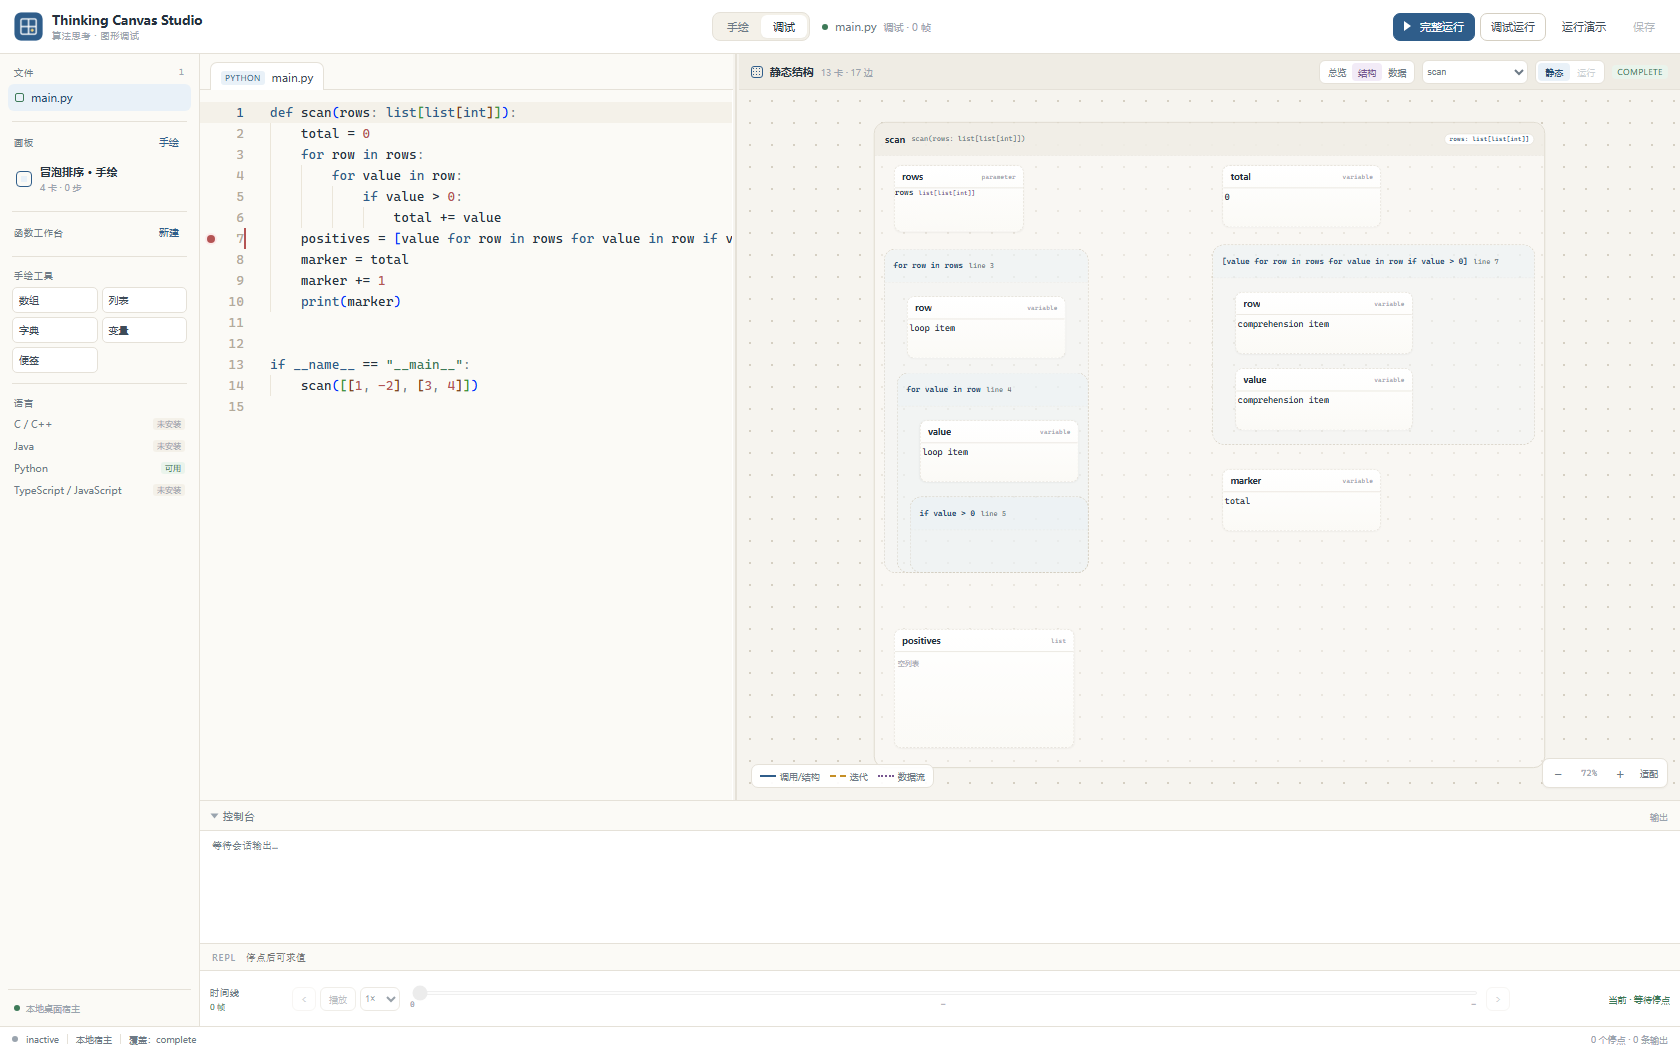
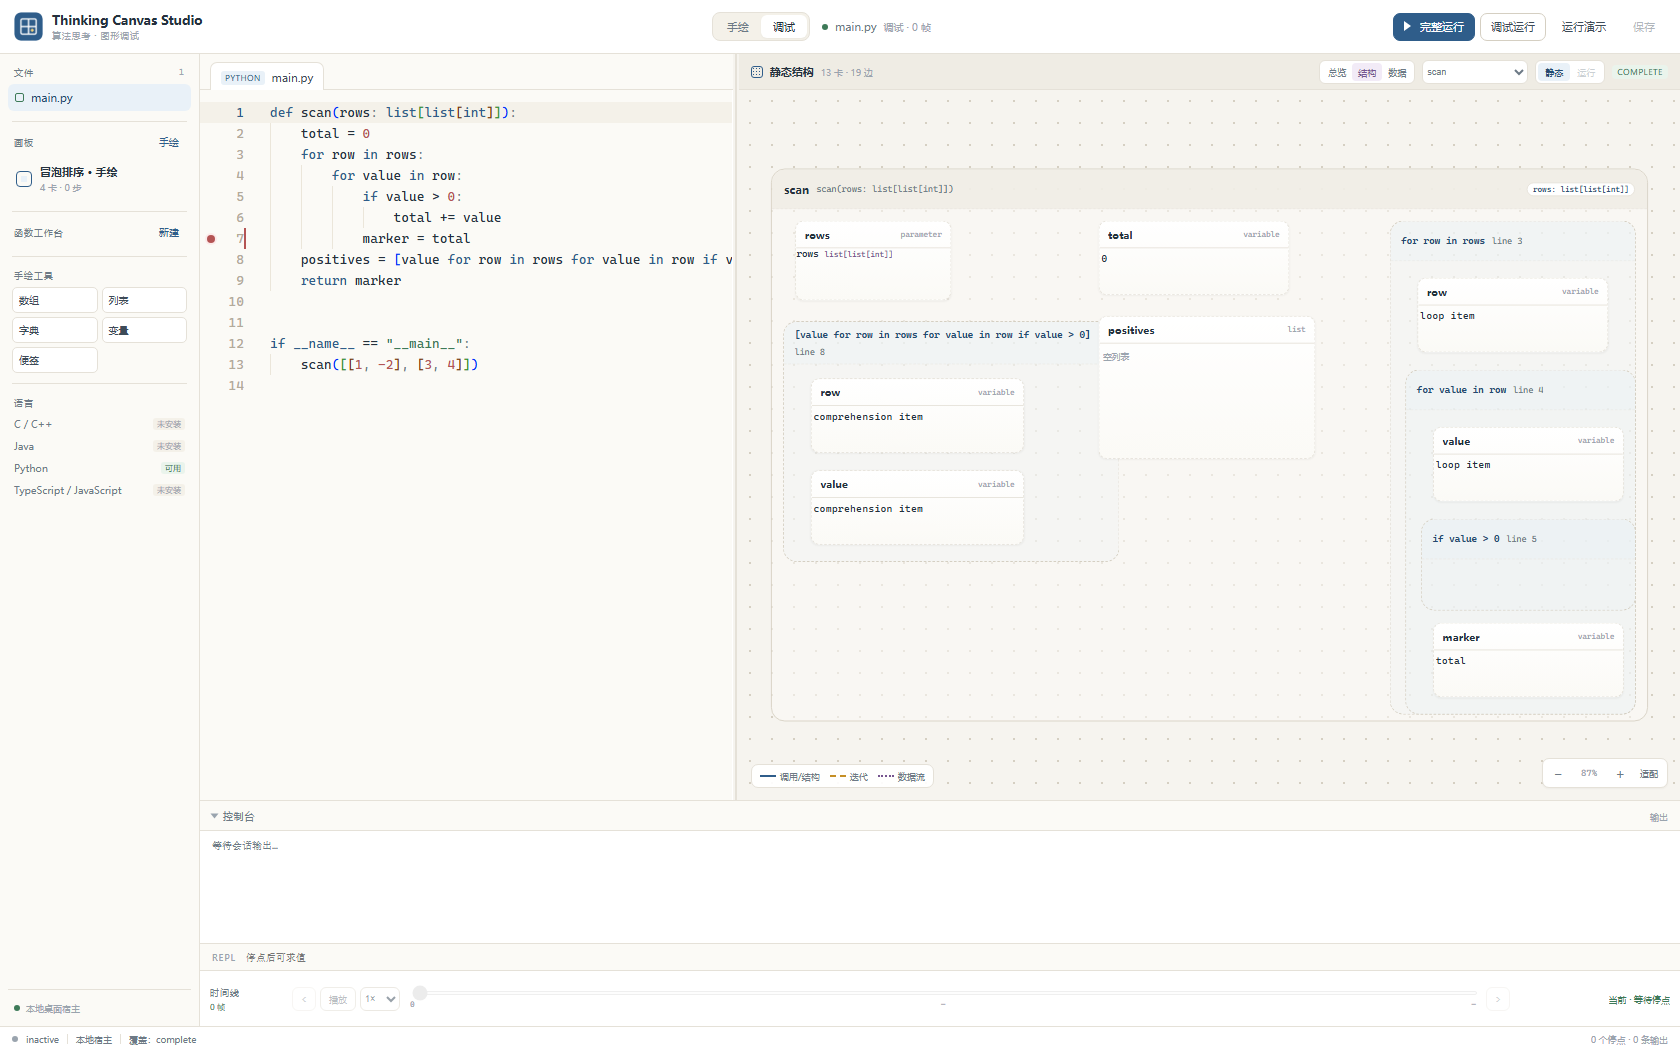
feat: show captured loop iterations on the canvas
- derive per-loop iteration chips from runtime snapshots
- show outer/inner/comprehension tracks in loop headers with current highlight
- keep tracks limited to captured stops and the latest six iterations
- refresh nested-control screenshots and document the remaining full-track work

diff --git a/frontend/src/canvas/SceneCanvas.tsx b/frontend/src/canvas/SceneCanvas.tsx
@@ -2,13 +2,15 @@ import { useEffect, useMemo, useRef, useState, type PointerEvent, type WheelEven
 import { graphlib, layout as dagreLayout } from '@dagrejs/dagre';
 import type { SceneDiff } from '@core/canvas/diff';
 import type { LayoutViewState } from '@core/canvas/documents';
-import type { CanvasNode, CardData, SceneDto } from '@core/domain/contracts';
+import type { CanvasNode, CardData, SceneDto, TraceSnapshot } from '@core/domain/contracts';
 
 interface SceneCanvasProps {
 	readonly scene: SceneDto;
 	readonly mode: 'manual' | 'debug';
 	readonly graphView?: 'overview' | 'structure' | 'data';
 	readonly focusId?: string;
+	readonly history?: readonly TraceSnapshot[];
+	readonly historyIndex?: number;
 	readonly layout: LayoutViewState;
 	readonly diff: SceneDiff;
 	readonly selectedNodeId?: string;
@@ -113,6 +115,8 @@ export function SceneCanvas({
 	mode,
 	graphView = 'overview',
 	focusId,
+	history,
+	historyIndex,
 	layout,
 	diff,
 	selectedNodeId,
@@ -130,6 +134,10 @@ export function SceneCanvas({
 	const sceneKey = useMemo(() => scene.nodes.map(node => node.id).join('|'), [scene.nodes]);
 	const regions = useMemo(() => frameRegions(scene, positions, graphView, focusId), [scene, positions, graphView, focusId]);
 	const hiddenNodeIds = useMemo(() => new Set(regions.map(region => region.hideNodeId).filter((id): id is string => !!id)), [regions]);
+	const loopTracks = useMemo(
+		() => loopHistory(scene, history, historyIndex, focusId),
+		[scene, history, historyIndex, focusId]
+	);
 	const visibleEdges = useMemo(() => {
 		const isStatic = scene.nodes.some(node => node.origin === 'static');
 		if (!isStatic) return scene.edges;
@@ -269,23 +277,37 @@ export function SceneCanvas({
 						);
 					})}
 				</svg>
-				{regions.map(region => (
-					<div
-						className={`scene-frame-region ${region.variant === 'control' ? 'is-control' : ''}`}
-						key={region.id}
-						style={{ left: region.x, top: region.y, width: region.width, height: region.height }}
-					>
-						<div className="scene-frame-head">
-							<strong>{region.title}</strong>
-							<span>{region.subtitle}</span>
-							{region.params.length > 0 && (
-								<div className="scene-frame-params">
-									{region.params.map(param => <span key={param}>{param}</span>)}
+				{regions.map(region => {
+					const loopId = region.id.startsWith('control:') ? region.id.slice('control:'.length) : undefined;
+					const track = loopId ? loopTracks[loopId] : undefined;
+					return (
+						<div
+							className={`scene-frame-region ${region.variant === 'control' ? 'is-control' : ''}`}
+							key={region.id}
+							style={{ left: region.x, top: region.y, width: region.width, height: region.height }}
+						>
+							<div className="scene-frame-head">
+								<strong>{region.title}</strong>
+								<span>{region.subtitle}</span>
+								{region.params.length > 0 && (
+									<div className="scene-frame-params">
+										{region.params.map(param => <span key={param}>{param}</span>)}
+									</div>
+								)}
+							</div>
+							{track && (
+								<div className="scene-loop-track" style={{ top: 46 }}>
+									{track.truncated && <span className="is-muted">…</span>}
+									{track.chips.map((chip, index) => (
+										<span className={index === track.chips.length - 1 ? 'is-current' : ''} key={chip.iteration}>
+											{chip.iteration}. {chip.text}
+										</span>
+									))}
 								</div>
 							)}
 						</div>
-					</div>
-				))}
+					);
+				})}
 				{scene.nodes.filter(node => !hiddenNodeIds.has(node.id)).map(node => {
 					const position = positions[node.id] ?? { x: 0, y: 0 };
 					const size = sizeOf(node);
@@ -837,7 +859,7 @@ function sizeOf(node: CanvasNode): { width: number; height: number } {
 						: card?.kind === 'class' ? `${card.name}(${card.bases.join(', ')})`
 							: node.label;
 		if (card && ['variable', 'text', 'node', 'function', 'loop', 'branch', 'class'].includes(card.kind)) {
-			const width = Math.max(220, Math.min(420, 120 + text.length * 7));
+			const width = Math.max(220, Math.min(360, 120 + text.length * 7));
 			const charsPerLine = Math.max(1, Math.floor((width - 36) / 7));
 			const lines = Math.max(1, Math.ceil(text.length / charsPerLine));
 			const baseHeight = card.kind === 'function' ? 150 : card.kind === 'class' ? 170 : card.kind === 'loop' ? 100 : 86;
@@ -846,6 +868,57 @@ function sizeOf(node: CanvasNode): { width: number; height: number } {
 	}
 	const width = node.origin === 'static' ? STATIC_CARD_WIDTH[kind] ?? CARD_WIDTH[kind] : CARD_WIDTH[kind];
 	return { width, height: CARD_HEIGHT[kind] };
+}
+
+interface LoopTrack {
+	readonly truncated: boolean;
+	readonly chips: readonly { readonly iteration: number; readonly text: string }[];
+}
+
+function loopHistory(
+	scene: SceneDto,
+	history: readonly TraceSnapshot[] | undefined,
+	historyIndex: number | undefined,
+	focusId: string | undefined
+): Record<string, LoopTrack> {
+	if (!history || history.length === 0 || !scene.nodes.some(node => node.origin === 'runtime')) return {};
+	const focus = scene.nodes.find(node => node.id === focusId)
+		?? scene.nodes.find(node => node.card?.kind === 'function' && !String(node.label).startsWith('__main__'))
+		?? scene.nodes.find(node => node.card?.kind === 'function');
+	const focusName = focus?.label;
+	const loops = scene.nodes.filter(node => node.card?.kind === 'loop');
+	const lastIndex = historyIndex !== undefined && historyIndex >= 0
+		? Math.min(historyIndex, history.length - 1)
+		: history.length - 1;
+	const snapshots = history.slice(0, lastIndex + 1);
+	const tracks: Record<string, LoopTrack> = {};
+	for (const loop of loops) {
+		const defined = new Set(scene.edges.filter(edge => edge.from === loop.id && edge.kind === 'defines').map(edge => edge.to));
+		const names = scene.edges
+			.filter(edge => edge.from === loop.id && edge.kind === 'writes' && !defined.has(edge.to))
+			.map(edge => scene.nodes.find(node => node.id === edge.to)?.label)
+			.filter((name): name is string => !!name);
+		if (names.length === 0) continue;
+		const chips: { iteration: number; text: string }[] = [];
+		for (const snapshot of snapshots) {
+			const frame = (focusName ? snapshot.frames.find(item => item.name === focusName) : undefined) ?? snapshot.frames[0];
+			if (!frame) continue;
+			const values = new Map<string, string>();
+			for (const scope of frame.scopes) {
+				for (const value of scope.values) values.set(value.name, value.value);
+			}
+			if (!names.every(name => values.has(name))) continue;
+			const text = names.map(name => `${name}=${(values.get(name) ?? '').slice(0, 18)}`).join(' · ');
+			if (chips.at(-1)?.text === text) continue;
+			chips.push({ iteration: chips.length + 1, text });
+		}
+		if (chips.length === 0) continue;
+		tracks[loop.id] = {
+			truncated: chips.length > 6,
+			chips: chips.slice(-6)
+		};
+	}
+	return tracks;
 }
 
 function structuralParentMap(scene: SceneDto): Map<string, string> {
@@ -901,9 +974,9 @@ function functionMemberGrid(scene: SceneDto, positions: Record<string, Point>, f
 	};
 	positions[focus.id] = { x: 40, y: 90 };
 	const direct = childrenOf(focus.id);
-	const columns = Math.min(2, Math.max(1, direct.length));
-	const columnWidth = 420;
-	const columnGap = 36;
+	const columns = Math.min(direct.length > 3 ? 3 : 2, Math.max(1, direct.length));
+	const columnWidth = 320;
+	const columnGap = 30;
 	const columnX = Array.from({ length: columns }, (_, index) => 40 + index * (columnWidth + columnGap));
 	const columnY = Array.from({ length: columns }, () => 140);
 	direct.forEach((child, index) => {

diff --git a/frontend/src/styles/canvas.css b/frontend/src/styles/canvas.css
@@ -124,6 +124,42 @@
 	margin-left: auto;
 }
 
+.scene-loop-track {
+	position: absolute;
+	left: 10px;
+	right: 10px;
+	height: 20px;
+	z-index: 2;
+	display: flex;
+	align-items: center;
+	gap: 5px;
+	overflow: hidden;
+	pointer-events: none;
+}
+
+.scene-loop-track span {
+	padding: 1px 5px;
+	border: 1px solid var(--line);
+	border-radius: 999px;
+	background: var(--surface);
+	color: var(--muted);
+	font-family: var(--font-mono);
+	font-size: 9px;
+	white-space: nowrap;
+}
+
+.scene-loop-track span.is-current {
+	border-color: var(--accent);
+	background: var(--accent-soft);
+	color: var(--accent-ink);
+}
+
+.scene-loop-track span.is-muted {
+	border-color: transparent;
+	background: transparent;
+	color: var(--faint);
+}
+
 .scene-frame-params span {
 	padding: 2px 6px;
 	border: 1px solid var(--line);

diff --git a/frontend/src/app/StudioApp.tsx b/frontend/src/app/StudioApp.tsx
@@ -188,6 +188,8 @@ function StudioView({ store }: { readonly store: StudioStore }) {
 								mode={state.mode}
 								graphView={state.graphView}
 								focusId={state.graphFocus}
+								history={state.snapshots}
+								historyIndex={state.snapshotIndex >= 0 ? state.snapshotIndex : state.snapshots.length - 1}
 								layout={state.manualBoard.layout}
 								diff={state.diff}
 								selectedNodeId={state.selectedNodeId}

diff --git a/docs/实时进度.md b/docs/实时进度.md
@@ -20,6 +20,7 @@
 | 静态函数框 | 完成（第一版） | 函数/类大方框、参数标签、框内卡片、字号统一 12px；变量卡按内容加宽；静态边按语义过滤/分端口 |
 | 运行时静态叠加 | 完成（第一版） | 当前帧值叠加到静态函数框/变量卡；`main` 静态 5 卡 → 运行时仍 5 卡；`nums` 窗口、`total/value/marker` 实时值；Watch 可用 |
 | 嵌套控制结构 | 完成（第一版） | 嵌套 `for/while`、`if/else`、Python 推导式 → `loop/branch` 节点 + 结构树布局；框套框；运行时同一嵌套框叠加值 |
+| 迭代值轨道（基础） | 完成 | 循环框头部显示已捕获轮次的值，当前轮高亮；外层行值、内层元素值、推导式值分别显示；最近 6 条 |
 | 静态/运行双视图 | 完成 | 画布可切换“静态/运行”；静态节点虚线样式 |
 | 真实 debugpy（Python） | 完成 | 断点/步过/继续/locals/list；原生确认 + 单次 receipt；debugpy attach；Job Object；集成测试通过 |
 | 变量分页 / 长容器 | 完成（Python） | 100,000 项 fixture 首批 100，`debug.variablesPage` 可继续读取；UI“加载更多”；画布卡片只画 20 项窗口 + `…` |
@@ -44,6 +45,7 @@
 - 真实调试 UI（无头 Edge + 真实 debugpy + 预签发 receipt 的测试桩）：`main.py:7` 停点；静态骨架叠加实时值后 `main` 框内 5 卡；Watch `len(nums)=1000`；REPL 返回 `1000`；`nums` 显示 20 项窗口 + `已显示 20 项`；截图 `docs/screenshots/debug-watch.png`。
 - 静态函数框实测：`main(nums: list[int])` 框头显示参数标签，框内 5 张卡，值字号统一 12px。
 - 嵌套控制实测：`scan(rows)` 静态 8 卡、5 个区域（函数框 + 外层 for + 内层 for + if + 推导式）；区域矩形实测外层 `205×324`、内层 `192×200`、if `179×76`，确实为框套框；运行时同一嵌套结构 + Watch `len(rows)=2`；截图 `docs/screenshots/static-frame.png`、`debug-watch.png`。
+- 迭代轨道实测：连续 4 个停点后，外层 for 轨道 `row=[1,-2] → row=[3,4]`，内层 for 轨道 `value=1 → -2 → 3 → 4`，推导式轨道显示 `row/value`；当前轮高亮，轨迹只来自已捕获停点。
 - 真实 debugpy 100,000 项数组测试：首批 100 项不阻塞，`debug.variablesPage` 从第 100 项继续返回 5 项，`len(nums)=100000`。
 - 浏览器真机（1680×1050，无头 Edge + CDP）：Monaco 渲染；脚本会话停点出现 4 张卡片；步过后 2 张卡片/1 个单元格高亮；时间线追加停点；手绘模式加数组、记录步骤成功。
 - Python WS 桥真机链路：浏览器 → WS `debug.start` → 脚本 DAP → `framesLoaded` → 画布/变量/时间线；步过 `stopEpoch` 1→3，数值变化正确。

diff --git a/docs/validation.md b/docs/validation.md
@@ -22,6 +22,7 @@
 | 变量分页 / Watch / REPL | 通过 | 真实 debugpy `main.py:7`：Watch `len(nums)=1000`，REPL 返回 `1000`，`nums` 从 100 项加载到 151 项 |
 | 静态函数框 / 运行时叠加 | 通过 | `main(nums: list[int])`：静态框头参数标签、框内 5 卡、字号 12px；运行时同一骨架显示 `nums` 窗口、`total=499500`、`value=999`、`marker=499501`，Watch `1000` |
 | 嵌套控制结构 | 通过 | `scan(rows)`：静态 8 卡、5 个区域（函数框 + 外层 for + 内层 for + if + 推导式）；区域矩形实测内层在外层内（外层 205×324，内层 192×200，if 179×76）；运行时同一嵌套结构 + Watch `len(rows)=2`；截图 `static-frame.png`、`debug-watch.png` |
+| 迭代值轨道 | 通过 | 连续 4 个停点：外层 for 轨道 `row=[1,-2] → row=[3,4]`，内层 for 轨道 `value=1 → -2 → 3 → 4`，推导式轨道显示 `row/value`；当前轮高亮；最近 6 条 |
 | 100,000 项数组 | 通过 | 首批 100 项；`debug.variablesPage` 从第 100 项继续返回 5 项；`len(nums)=100000`，不一次性渲染完整数据 |
 | 帧轴时间线 | 通过 | Demo 步过后 2 帧、滑块当前值 1；500 帧上限 |
 | 完整运行记录 | 通过 | fixture 自动记录 12 帧，包含循环行 3/4、函数行 2/5、测试行 8/9；自动继续到结束 |
@@ -40,7 +41,8 @@
 - TS/JS 只用 TypeScript compiler API 做单文件静态分析；没有类型检查、跨文件解析或运行时数据。
 - Watch/REPL/分页求值会执行用户代码；真实运行的原生确认已明确包含该授权，记录模式禁用 Watch。
 - 列表/数组的后续分页通过 `evaluate` 切片读取；字典/集合在 DAP 不支持分页时会拒绝继续，不会重复返回第一页。
-- 画布已有函数大方框和运行时静态叠加；逐迭代循环轨道、带证据的赋值/读取边、张量卡、超大框视口虚拟化仍未实现。
+- 画布已有函数大方框、运行时静态叠加和基础循环轨道；完整逐轮轨道、带证据的赋值/读取边、张量卡、超大框视口虚拟化仍未实现。
+- 循环轨道只显示已捕获停点的值，且只保留最近 6 条；没有停点就无法知道运行中的每一轮。
 - 静态函数边默认隐藏包含类边，只显示迭代/调用/返回等语义边；这不是完整数据流图。
 - 运行中修改断点尚未同步；断点只在启动时下发。
 - 连续运行中的每次赋值没有采集；只保存已发生的暂停快照。

diff --git a/docs/反馈.md b/docs/反馈.md
@@ -24,7 +24,7 @@
 
 - [x] 函数/栈帧大方框、参数标签、静态骨架叠加、统一字号/图例：见 2026-10-24 追加。
 - [ ] 带证据的赋值/读取/传参/返回边：从语句/变量指向目标，边带 `line` 和关系标签；只在有 AST 证据和值变化时画。
-- [ ] 逐迭代循环轨道：按迭代序号展示当前轮、循环变量和关键数据；回放与帧对齐。
+- [x] 迭代值轨道（基础）：循环框头部显示已捕获轮次和值，当前轮高亮；见 2026-10-24 追加。
 - [ ] 张量卡：shape/dtype/device/切片预览；无元数据时显式未知；求值读取元数据要授权。
 - [ ] 步进/回放传递动画：变化卡高亮、上一值残影、写入边加粗；回放明确不重新执行。
 
@@ -42,7 +42,9 @@
   - 判据实测：`scan(rows)` fixture 静态 8 卡、5 个区域（函数框 + 外层 for + 内层 for + if + 推导式），内层框在外层框内部、if 在内层框内部；运行时同一嵌套结构叠加 `rows/total/row/value/marker` 值；Watch `len(rows)=2`；截图 `static-frame.png`、`debug-watch.png`。
 - [ ] `if` 内部的写入关系边（当前 if 框显示条件，但 `total += value` 仍按函数作用域放在外层；下一步加写入边/归属）。
 - [ ] 带证据的赋值/读取边（当前静态语义边尚未按运行时变化高亮）。
-- [ ] 逐迭代循环轨道（当前嵌套框是结构层级，尚未把每一轮的值排成轨道）。
+- [x] 迭代值轨道（基础）：循环框头部显示已捕获的迭代值，当前轮高亮；嵌套循环各自有轨道。
+  - 判据实测：`scan` 运行 4 个停点后，外层 for 轨道 `row=[1,-2] → row=[3,4]`，内层 for 轨道 `value=1 → -2 → 3 → 4`，推导式轨道同时显示 `row/value`；截图 `debug-watch.png`。
+- [ ] 更完整的逐轮轨道：跨记录帧压缩、每轮关键变量对比、点击轨道跳帧；当前只显示已捕获停点的最近 6 条。
 - [ ] 更复杂的推导式/海象运算符/`match` 等语法点的识别与测试。
 - [ ] 函数框/类框内子卡视口虚拟化与超大框性能压测（当前框随内容增长，未做大框虚拟化）。
 - [ ] 张量 shape/dtype/device 卡与轴导航。

diff --git a/docs/backlog.md b/docs/backlog.md
@@ -13,4 +13,4 @@
 - 2026-10-23：补充卡片边界规范：函数框就是大方框；普通卡最大 560×360；数组/矩阵/字典分页窗口；页面文案减法。见 `docs/canvas-card-spec.md`。
 - 2026-10-23：P0a 调试落地：真实 debugpy 变量分页（10 万项 fixture）、Watch/REPL（授权 + 停点代际）、暂停按钮、画布长容器窗口/`…`、页面文案压缩；Python 56 项测试；真实 UI 截图 `docs/screenshots/debug-watch.png`。
 - 2026-10-24：画布第一版结构修正：函数/类大方框+参数标签、统一 12px 字号、变量卡按内容加宽、语义边过滤/端口分线/图例；运行时用静态骨架叠加当前帧值；新增 `static-frame.png`、更新 `debug-watch.png`。
-- 2026-10-24：嵌套控制第一版：`for/while/if/else/推导式` 生成 `loop/branch` 节点，按结构树框套框；`scan` fixture 5 区域/4 控制框，运行时同一嵌套结构叠加实时值；Python 57 项测试。
+- 2026-10-24：嵌套控制第一版：`for/while/if/else/推导式` 生成 `loop/branch` 节点，按结构树框套框；`scan` fixture 5 区域/4 控制框，运行时同一嵌套结构叠加实时值；循环框头部显示已捕获轮次值（4 停点：row 两行、value 1/-2/3/4）；Python 57 项测试。

diff --git a/docs/architecture.md b/docs/architecture.md
@@ -71,6 +71,7 @@ flowchart LR
 | ADR-020 | 变量懒加载/分页 + Watch/REPL 求值纳入运行授权 | 长数组不一次抓完；`debug.variablesPage` 按停点句柄分页；`debug.evaluate` 只在授权会话的停点执行；原生确认明确写“允许 Watch/REPL 表达式” |
 | ADR-021 | 静态骨架 + 运行时值叠加 | 运行时不再另起平铺布局；静态函数/类框、参数标签、循环/变量卡作为骨架，当前帧值覆盖同名变量/参数卡；结构不跳、值在原位变化；无匹配值时回退独立运行时投影 |
 | ADR-022 | 控制结构用结构树嵌套，不画成平级卡片 | `for/while/if/else/推导式` 生成 `loop/branch` 节点；前端按 `nested/defines/writes` 建树，框套框布局；包含关系靠空间，不再画 `contains` 线 |
+| ADR-023 | 循环轨道只消费已捕获帧 | 用快照中循环目标变量的连续变化生成轮次；没有停点就不造轮次；当前只保留最近 6 条，回放按快照索引截断 |
 
 ## 一次单步的数据流
 

diff --git a/docs/screenshots/description.md b/docs/screenshots/description.md
@@ -1,3 +1,3 @@
 # screenshots
 
-正式界面截图，用于 README 与交接。`studio-debug.png` 是浏览器 1680×1050 下的脚本调试会话；`studio-manual.png` 是手绘模式加一张数组并记录一步；`static-frame.png` 是静态结构：函数大方框、参数标签、嵌套 for/if/推导式框；`debug-watch.png` 是真实 debugpy 同一嵌套结构叠加实时值、Watch 和变量窗口。截图中的“脚本演示”标记表示未执行用户代码。
+正式界面截图，用于 README 与交接。`studio-debug.png` 是浏览器 1680×1050 下的脚本调试会话；`studio-manual.png` 是手绘模式加一张数组并记录一步；`static-frame.png` 是静态结构：函数大方框、参数标签、嵌套 for/if/推导式框；`debug-watch.png` 是真实 debugpy 同一嵌套结构叠加实时值、循环轨道、Watch 和变量窗口。截图中的“脚本演示”标记表示未执行用户代码。

diff --git a/frontend/src/backlog.md b/frontend/src/backlog.md
@@ -18,4 +18,5 @@
 - [x] 真实调试 P0a：变量“加载更多”分页、Watch/REPL、暂停按钮；画布长容器窗口 + `…`；页面文案压缩（停点/卡/边/帧）。
 - [x] 画布：函数/类大方框 + 参数标签、框内成员网格、字号统一 12px、变量卡按文本加宽、语义边过滤/端口分线/图例；运行时在同一静态骨架上叠加当前帧值。
 - [x] 嵌套控制：按 `nested/defines/writes` 结构树递归布局，嵌套 for/while/if/else/推导式框套框；运行时值叠加后保持嵌套。
-- [ ] 逐迭代循环轨道、带证据的赋值/读取边、张量卡、超大框视口虚拟化。
+- [x] 循环轨道（基础）：循环框头部显示已捕获轮次值，当前轮高亮；外层/内层/推导式各自一条轨道。
+- [ ] 完整逐轮轨道（压缩/跳帧/对比）、带证据的赋值/读取边、张量卡、超大框视口虚拟化。

diff --git a/docs/screenshots/backlog.md b/docs/screenshots/backlog.md
@@ -2,5 +2,5 @@
 
 - [x] 保存 1680×1050 调试/手绘两张正式截图；界面显示脚本演示标记。
 - [x] `static-frame.png`：静态函数大方框 + 参数标签 + 嵌套 for/if/推导式框。
-- [x] `debug-watch.png`：真实 debugpy 停点，同一嵌套结构叠加实时值，Watch `len(rows)=2`；列表只显示窗口。
+- [x] `debug-watch.png`：真实 debugpy 4 个停点，同一嵌套结构叠加实时值、循环轨道、Watch `len(rows)=2`；列表只显示窗口。
 - [ ] pywebview 真窗口截图（含 IME/DPI）待补；不要把浏览器截图当窗口验收。
